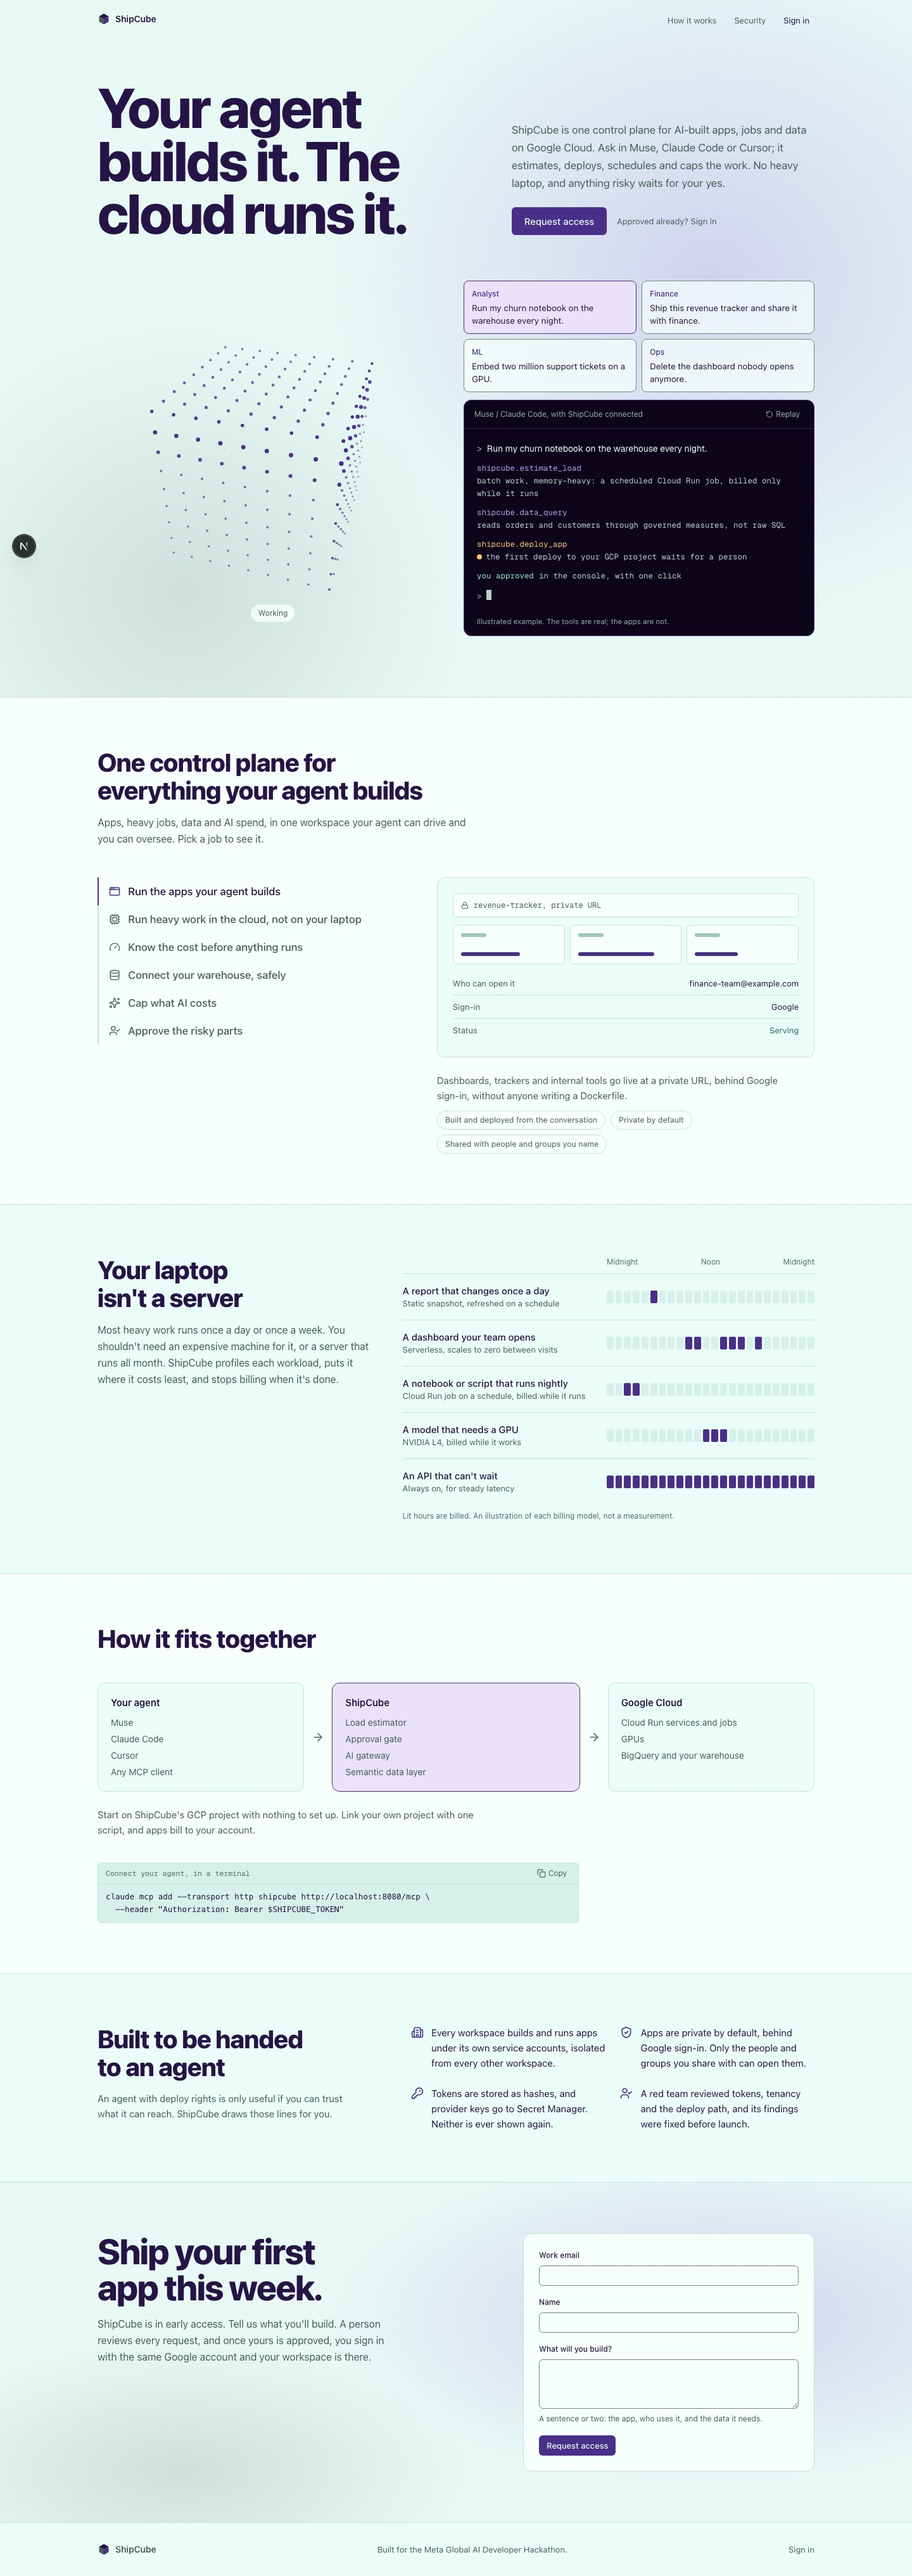
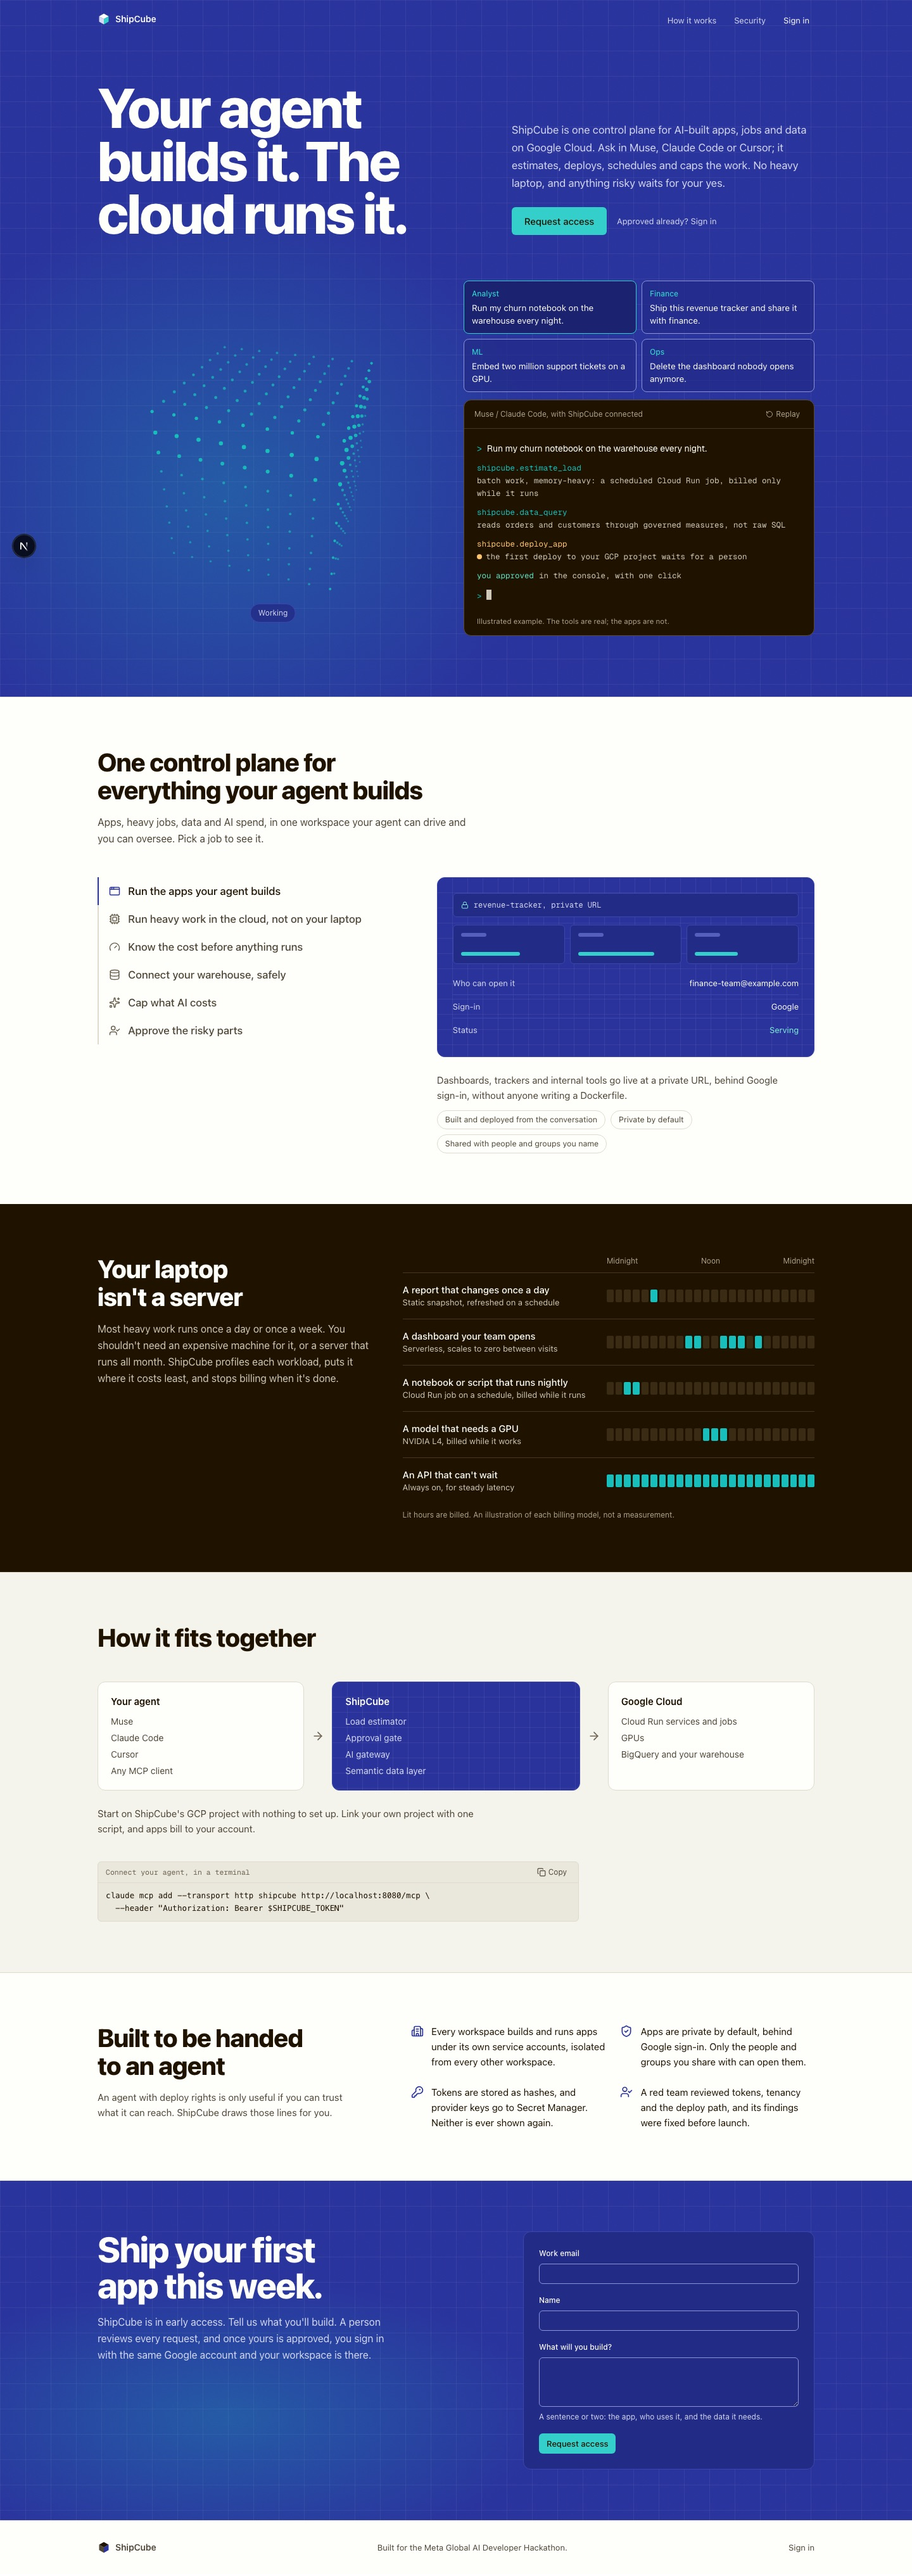
Landing: a blueprint palette in royal blue, teal, ink and paper
The page is paper (#fffffa) with ink type (#1f1300). Sections opt into a tone:
the hero and the closing request are royal blue (#29339b) on a fine blueprint
grid, with a teal (#17bebb) cube and teal buttons; the compute section and the
agent terminal are ink. The control-plane illustrations and the ShipCube box in
"How it fits together" are small blueprint panels, so the motif runs through
the page. Tones are token sets (.tone-blue, .tone-ink), so shared components
follow. axe finds no contrast violations at 1440 or 390px, and outlines stay
at least 3:1.

diff --git a/apps/web/src/app/globals.css b/apps/web/src/app/globals.css
@@ -165,77 +165,111 @@ h3 {
 }
 
 /* Landing page (src/app/(public)). Its own palette whatever the console theme: the same token names,
-   redefined, so shared components follow. Built from four colours: mint #eafdf8, deep violet
-   #261447, lavender #b4a0e5 and sage #506c64. Amber means "waits for a person" and nothing else.
-   --cube is the hero cube's dots; --glow-a and --glow-b light the hero. */
+   redefined, so shared components follow. Four colours: royal blue #29339b, teal #17bebb, ink
+   #1f1300 and paper #fffffa. The page is paper; a section opts into blue or ink with .tone-blue or
+   .tone-ink (the agent transcript, .term, is always ink). Amber means "waits for a person" and
+   nothing else. --cube is the hero cube's dots; --glow lights the hero. */
 .landing {
-  /* A light page in mint, deep violet type and buttons, lavender and sage as tints.
-     Inputs and button outlines are at least 3:1 against the page. */
-  --bg: #eafdf8;
-  --surface: #f7fffc;
-  --surface-2: #d6f1e9;
-  --border: #c3e2d9;
-  --border-strong: #9fc6bb;
-  --input-border: #6d8a82;
-  --fg: #261447;
-  --fg-muted: #445e57;
-  --fg-subtle: #506c64;
-  --accent: #4a2f8a;
-  --accent-hover: #261447;
-  --accent-fg: #eafdf8;
-  --accent-soft: #e9e2fa;
-  --good: #1f7055;
-  --good-soft: #d3f1e5;
+  --bg: #fffffa;
+  --surface: #f5f4ec;
+  --surface-2: #eae8dc;
+  --border: #dedbcc;
+  --border-strong: #c7c3b0;
+  /* Inputs and button outlines: at least 3:1 against the section. */
+  --input-border: #8a8574;
+  --fg: #1f1300;
+  --fg-muted: #4e4636;
+  --fg-subtle: #6b624f;
+  --accent: #29339b;
+  --accent-hover: #1f2779;
+  --accent-fg: #fffffa;
+  --accent-soft: #e4e6f7;
+  --good: #0b7a77;
+  --good-soft: #dcf4f3;
   --warning: #8a5300;
-  --warning-soft: #fdf0d9;
+  --warning-soft: #fbefd9;
   --critical: #b3261e;
-  --critical-soft: #fde6e4;
+  --critical-soft: #fbe5e2;
   --approve: #9a5d00;
-  --cube: #4a2f8a;
-  --glow-a: rgb(180 160 229 / 0.45);
-  --glow-b: rgb(80 108 100 / 0.18);
+  --cube: #29339b;
+  --glow: rgb(23 190 187 / 0.18);
   color-scheme: light;
   background: var(--bg);
   color: var(--fg);
 }
-/* The agent transcript is a dark terminal: deep violet, mint text, a lavender accent. */
-.landing .term {
-  --bg: #120a24;
-  --surface: #1b1034;
-  --surface-2: #261447;
-  --border: #31205a;
-  --border-strong: #432f78;
-  --input-border: #8f7fc0;
-  --fg: #eafdf8;
-  --fg-muted: #b8d1ca;
-  --fg-subtle: #97b2aa;
-  --accent: #b4a0e5;
-  --accent-hover: #c8b9ef;
-  --accent-fg: #261447;
-  --accent-soft: #2e1c57;
-  --good: #8ee6c6;
-  --good-soft: #143229;
+.landing .tone-blue {
+  --bg: #29339b;
+  --surface: #222b86;
+  --surface-2: #1c2472;
+  --border: #3c47ae;
+  --border-strong: #5560bd;
+  --input-border: #8c94d6;
+  --fg: #fffffa;
+  --fg-muted: #d5d8f2;
+  --fg-subtle: #b9bee8;
+  --accent: #34cfcb;
+  --accent-hover: #6fe0dd;
+  --accent-fg: #1f1300;
+  --accent-soft: #1a2270;
+  --good: #7ff0d9;
+  --good-soft: #163a6e;
   --warning: #ffc46b;
-  --warning-soft: #33240f;
-  --critical: #ff9d9d;
-  --critical-soft: #34161c;
+  --warning-soft: #3a3170;
+  --critical: #ffb3b3;
+  --critical-soft: #4a2a6e;
   --approve: #ffc46b;
-  --term-bg: #0d061b;
+  --cube: #17bebb;
+  --glow: rgb(23 190 187 / 0.28);
   color-scheme: dark;
+  background-color: var(--bg);
   color: var(--fg);
 }
-/* The terminal paints its own background. */
+.landing .tone-ink,
 .landing .term {
-  background: var(--term-bg);
+  --bg: #1f1300;
+  --surface: #2a1d08;
+  --surface-2: #3a2c14;
+  --border: #45381f;
+  --border-strong: #5c4d31;
+  --input-border: #8f8064;
+  --fg: #fffffa;
+  --fg-muted: #cfc8b8;
+  --fg-subtle: #ada48f;
+  --accent: #17bebb;
+  --accent-hover: #4fd6d3;
+  --accent-fg: #1f1300;
+  --accent-soft: #0e3633;
+  --good: #5fe0c4;
+  --good-soft: #10302a;
+  --warning: #ffc46b;
+  --warning-soft: #3a2a0c;
+  --critical: #ff9d9d;
+  --critical-soft: #3a1612;
+  --approve: #ffc46b;
+  --cube: #17bebb;
+  color-scheme: dark;
+  background-color: var(--bg);
+  color: var(--fg);
 }
 
-/* Film grain plus one glow behind the hero's terminal. Static: no motion, no cost after paint. */
+/* Blueprint paper: the fine grid the hero uses, for smaller blue panels. */
+.blueprint {
+  background-image:
+    linear-gradient(rgb(255 255 250 / 0.07) 1px, transparent 1px),
+    linear-gradient(90deg, rgb(255 255 250 / 0.07) 1px, transparent 1px);
+  background-size: 24px 24px;
+  background-position: -1px -1px;
+}
+
+/* The hero is a blueprint: a fine grid on blue, one teal glow behind the cube. Static: no cost after paint. */
 .landing-hero {
   position: relative;
   isolation: isolate;
-  background:
-    radial-gradient(60% 70% at 78% 40%, var(--glow-a), transparent 70%),
-    radial-gradient(45% 55% at 20% 85%, var(--glow-b), transparent 70%);
+  background-image:
+    radial-gradient(50% 60% at 25% 70%, var(--glow), transparent 70%),
+    linear-gradient(rgb(255 255 250 / 0.06) 1px, transparent 1px),
+    linear-gradient(90deg, rgb(255 255 250 / 0.06) 1px, transparent 1px);
+  background-size: auto, 40px 40px, 40px 40px;
 }
 .landing-hero::before {
   content: "";

diff --git a/apps/web/src/app/(public)/page.tsx b/apps/web/src/app/(public)/page.tsx
@@ -83,7 +83,7 @@ export default async function Landing() {
         Skip to content
       </a>
 
-      <div className="landing-hero">
+      <div className="landing-hero tone-blue">
         <header className="mx-auto flex h-16 max-w-[1180px] items-center justify-between gap-4 px-4 sm:px-6">
           <Link href="/" aria-label="ShipCube home">
             <Wordmark />
@@ -134,7 +134,7 @@ export default async function Landing() {
       </div>
 
       <main id="main">
-        <section id="how-it-works" aria-labelledby="plane-heading" className="border-t border-border bg-surface">
+        <section id="how-it-works" aria-labelledby="plane-heading" className="border-t border-border">
           <div className="mx-auto max-w-[1180px] px-4 py-20 sm:px-6">
             <h2 id="plane-heading" className={`max-w-[22ch] ${H2}`}>
               One control plane for everything your agent builds
@@ -149,7 +149,7 @@ export default async function Landing() {
           </div>
         </section>
 
-        <section aria-labelledby="compute-heading" className="border-t border-border">
+        <section aria-labelledby="compute-heading" className="tone-ink">
           <div className="mx-auto grid max-w-[1180px] gap-12 px-4 py-20 sm:px-6 lg:grid-cols-[minmax(0,0.8fr)_minmax(0,1.2fr)]">
             <div>
               <h2 id="compute-heading" className={H2}>
@@ -202,7 +202,7 @@ export default async function Landing() {
                     <ArrowRight className="size-5 rotate-90 self-center justify-self-center text-fg-subtle md:rotate-0" aria-hidden />
                   )}
                   <div
-                    className={`rounded-xl border p-5 ${f.title === "ShipCube" ? "border-accent bg-accent-soft" : "border-border bg-bg"}`}
+                    className={`rounded-xl border p-5 ${f.title === "ShipCube" ? "tone-blue blueprint border-border" : "border-border bg-bg"}`}
                   >
                     <h3 className="text-[15px] font-semibold">{f.title}</h3>
                     <ul className="mt-3 flex flex-col gap-1.5 text-[14px] text-fg-muted">
@@ -248,7 +248,7 @@ export default async function Landing() {
           </div>
         </section>
 
-        <section id="request-access" aria-labelledby="request-heading" className="landing-hero border-t border-border">
+        <section id="request-access" aria-labelledby="request-heading" className="landing-hero tone-blue">
           <div className="mx-auto grid max-w-[1180px] gap-10 px-4 py-20 sm:px-6 md:grid-cols-[minmax(0,1fr)_minmax(0,460px)] md:items-start">
             <div>
               <h2 id="request-heading" className="font-display text-[40px] leading-[1.02] font-extrabold tracking-[-0.03em] sm:text-[56px]">

diff --git a/apps/web/src/app/opengraph-image.tsx b/apps/web/src/app/opengraph-image.tsx
@@ -34,17 +34,17 @@ export default async function OpenGraphImage() {
           flexDirection: "column",
           justifyContent: "space-between",
           padding: "72px 80px",
-          backgroundColor: "#eafdf8",
-          backgroundImage: "radial-gradient(circle at 85% 30%, rgba(180,160,229,0.55), rgba(234,253,248,0) 60%)",
-          color: "#261447",
+          backgroundColor: "#29339b",
+          backgroundImage: "radial-gradient(circle at 85% 30%, rgba(23,190,187,0.35), rgba(41,51,155,0) 60%)",
+          color: "#fffffa",
           fontFamily: "sans-serif",
         }}
       >
         <div style={{ display: "flex", alignItems: "center", gap: 18, fontSize: 34, fontWeight: 700 }}>
           <svg width="44" height="44" viewBox="0 0 20 20">
-            <path d="M10 1.5 17.5 5.75 10 10 2.5 5.75Z" fill="#261447" />
-            <path d="M2.5 5.75 10 10v8.5L2.5 14.25Z" fill="#506c64" />
-            <path d="M17.5 5.75 10 10v8.5l7.5-4.25Z" fill="#4a2f8a" />
+            <path d="M10 1.5 17.5 5.75 10 10 2.5 5.75Z" fill="#fffffa" />
+            <path d="M2.5 5.75 10 10v8.5L2.5 14.25Z" fill="#d5d8f2" />
+            <path d="M17.5 5.75 10 10v8.5l7.5-4.25Z" fill="#17bebb" />
           </svg>
           ShipCube
         </div>
@@ -52,12 +52,12 @@ export default async function OpenGraphImage() {
           <div style={{ fontSize: 80, fontWeight: 800, lineHeight: 1.02, letterSpacing: -2, maxWidth: 1000, fontFamily: font ? "Display" : undefined }}>
             Your agent builds it. The cloud runs it.
           </div>
-          <div style={{ fontSize: 30, color: "#445e57", maxWidth: 940 }}>
+          <div style={{ fontSize: 30, color: "#d5d8f2", maxWidth: 940 }}>
             One control plane for AI-built apps, jobs and data on Google Cloud, driven from Muse, Claude Code, Cursor and other agents.
           </div>
         </div>
-        <div style={{ display: "flex", alignItems: "center", gap: 14, fontSize: 26, color: "#8a5300" }}>
-          <div style={{ width: 14, height: 14, borderRadius: 7, background: "#9a5d00" }} />
+        <div style={{ display: "flex", alignItems: "center", gap: 14, fontSize: 26, color: "#ffc46b" }}>
+          <div style={{ width: 14, height: 14, borderRadius: 7, background: "#ffc46b" }} />
           Anything risky waits for a person
         </div>
       </div>

diff --git a/apps/web/src/app/(public)/control-plane.tsx b/apps/web/src/app/(public)/control-plane.tsx
@@ -77,7 +77,7 @@ export function ControlPlane() {
         ))}
       </ol>
       <div className="flex flex-col gap-6" aria-live="polite">
-        <div className="rounded-xl border border-border bg-bg p-4 sm:p-6">
+        <div className="tone-blue blueprint rounded-xl border border-border p-4 sm:p-6">
           <job.Art key={active} />
         </div>
         <div>
